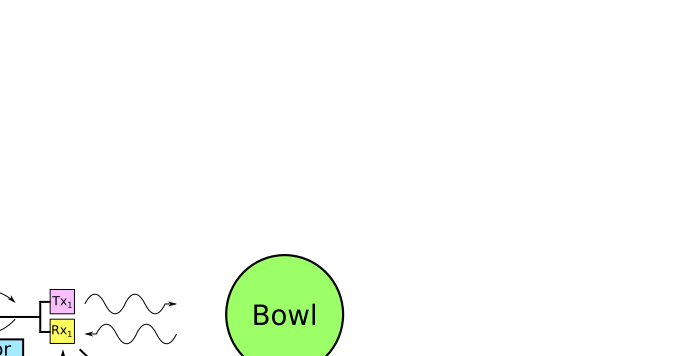
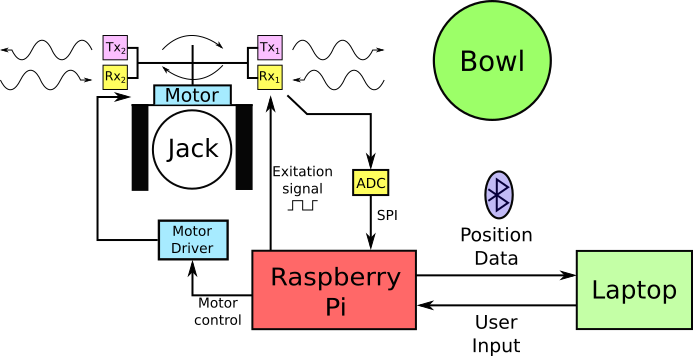
Updated README

diff --git a/README.md b/README.md
@@ -1,5 +1,4 @@
-![Alternative text][logo]
-[logo]: Resources/Misc/bowlseyelogo.png
+![Alternative text](Resources/Misc/bowlseyelogo.png)
 
 # Bowls Eye
 -----------
@@ -16,8 +15,19 @@ Assistive technology is used throughout many sports to aid referees to determine
 # Solution
 -----------
 
-In order to accurately detect the distance between the jack and surrounding bowls we propose the construction of rotation distance sensor. This will consist of a pair of ultrasonic transducers mounted to a stepper motor, which will allow 3600 rotational distance sensing via pule-echo detection. This will then output the detected distance to the nearest object per step via Bluetooth to a circular real-time display running on a laptop. This GUI will also be used to start the scanning procedure and specify the scanning parameters
+In order to accurately detect the distance between the jack and surrounding bowls we propose the construction of rotating distance sensor. This will consist of a pair of ultrasonic transducers mounted to a stepper motor, which will allow for 360deg of rotational distance sensing via pulse-echo detection. This will then output a real-time feed of the calculated distance to the nearest object via Bluetooth to a display running on a laptop. This GUI will also be used to start the scanning procedure and specify the system parameters.
 
-The responsiveness of our distance sensor will be dictated by the required distance resolution, ie. detection of a smaller axial distance step will slow responsiveness as this will require a higher rate of data from the ultrasonic sensors to the be processed. Similarly, using a smaller angular resolution step will increase the time taken to perform a full rotation. Finally, the time for a single scan to be performed in the absence of a detectable object, ie. the wait time before moving to the next scan, will greatly impact the responsiveness of the application. All of these parameters will be user controllable via the GUI and so may be optimised for their desired time/accuracy result.
+The responsiveness of our distance sensor will be dictated by the required distance resolution, ie. a higher axial resolution will require a larger amount of data from the ultrasonic sensors to the be processed, thus slow overall responsiveness. Similarly, using a small angular step will increase the time taken to perform a full rotation. Finally, the time for a single scan to be performed in the absence of a detectable object, ie. the maximum range to be found, dictated by the wait time before moving to the next scan, will greatly impact the responsiveness of the application. All of these parameters will be user controllable via the GUI and so may be optimised for their desired time/accuracy result.
 
-The ADC sampling rate will be between 500k-1MS/s using SPI with two channels. For a single A-scan with a maximum range of 1m there will be ~6s of data to be stored, which will be between 3 million to 6 million samples, corresponding to a detection resolution of ~50um. The Rpi will perform threshold detection to estimate the distance to an object per single scan and output this distance along with the angular position via Bluetooth for real-time display. This requires the use of three threads; one for ADC polling, one for data processing and one for data output. The GUI will be constructed using PyQT and will require threads for starting/stopping the scan process and polling/displaying the received data.
+The ADC sampling rate will be between 500k-1MS/s using SPI with two channels. For a single A-scan with a maximum range of 1m there will be ~6s of data to be stored, which will be between 3 million to 6 million samples, corresponding to a detection resolution of ~50um. The Rpi will perform threshold detection to estimate the distance to an object per single scan and output this distance along with the angular position via Bluetooth for real-time display. This may require the use of three threads; one for transducer excitation and ADC sampling, one for data processing and one for data output. The GUI will be constructed using PyQT and will use QTthreads for 'listening' to the data received from the Rpi via bluetooth and to construct the final display of objects.
+
+A system overview is shown below, and you can follow our progress via this git, or our [facebook](https://www.facebook.com/Bowls-Eye-102409543919161/) or [twitter](https://twitter.com/bowlseyepi).
+
+
+![Alternative text](Resources/Misc/blockDiagram.png)
+
+
+
+
+
+
